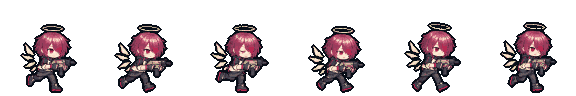
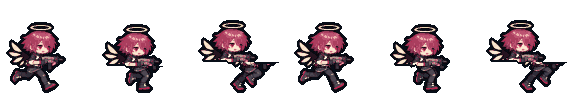
art: redraw exusiai from approved costume and motion drafts

diff --git a/art/incoming/redraw_exusiai_handoff.md b/art/incoming/redraw_exusiai_handoff.md
@@ -1,0 +1,21 @@
+# exusiai 用户批准草稿重绘交接 · 2026-10-12
+
+## 完成内容
+仅重绘run六帧，跨步/压低/过渡两组，变化集中在双腿，头脸及持枪上半身复用同一画片起伏。沿用其他动作色板，不提交idle/attack/skill图片。完整manifest保留未改动作原哈希。
+
+## 契约
+48×48与96×96逐帧对应，文件名/帧数/fps/出手帧/逻辑锚点(24,46)/(48,92)沿用既有manifest。透明只有0/255，外描边#080E18，1x 1像素 / @2x 2像素，每人最多24色。
+本轮用户对服饰和悬浮的直接要求优先于旧docs/69的轻步及仅改run限制；不改game/。
+
+## QA
+独立报告 redraw_exusiai_qa.json。尺寸、二值透明、非空、边界、描边、色数、哈希与未变契约已校验。悬浮run作为唯一不检查脚底贴地的例外，不用步行腿部阈值判定它。
+跑步整体变化 0.1865，腿部变化 0.3457，头部起伏 1.68 px（折算1x）。这些是像素指标，不代替实机目测。
+
+## 预览
+redraw_exusiai_contact.png 展示全帧；redraw_exusiai_<action>.gif 为原版/新版并排3倍最近邻动画，按manifest fps播放。已查看静态全帧，实机速度、动作切换及L4观感仍待Claude验收。
+
+## 接入
+Claude从干净main接收本项提交，采用同名op_*素材，并刷新导入后验收；本提交仅art/incoming。尤其检查出手位置与脚下阴影，悬浮仍使用原世界锚点，禁止按画面靴底把身体向下补齐。不声称已经接入或运行游戏测试。
+
+## 生成
+built-in image_gen重绘源图，裁切/固定角色比例/限色/锚点注册/描边规范后导出，详细提示与源hash见generation JSON。不是把旧图放大；@2x为新图重采样整理，1x由它逐2像素采样。
